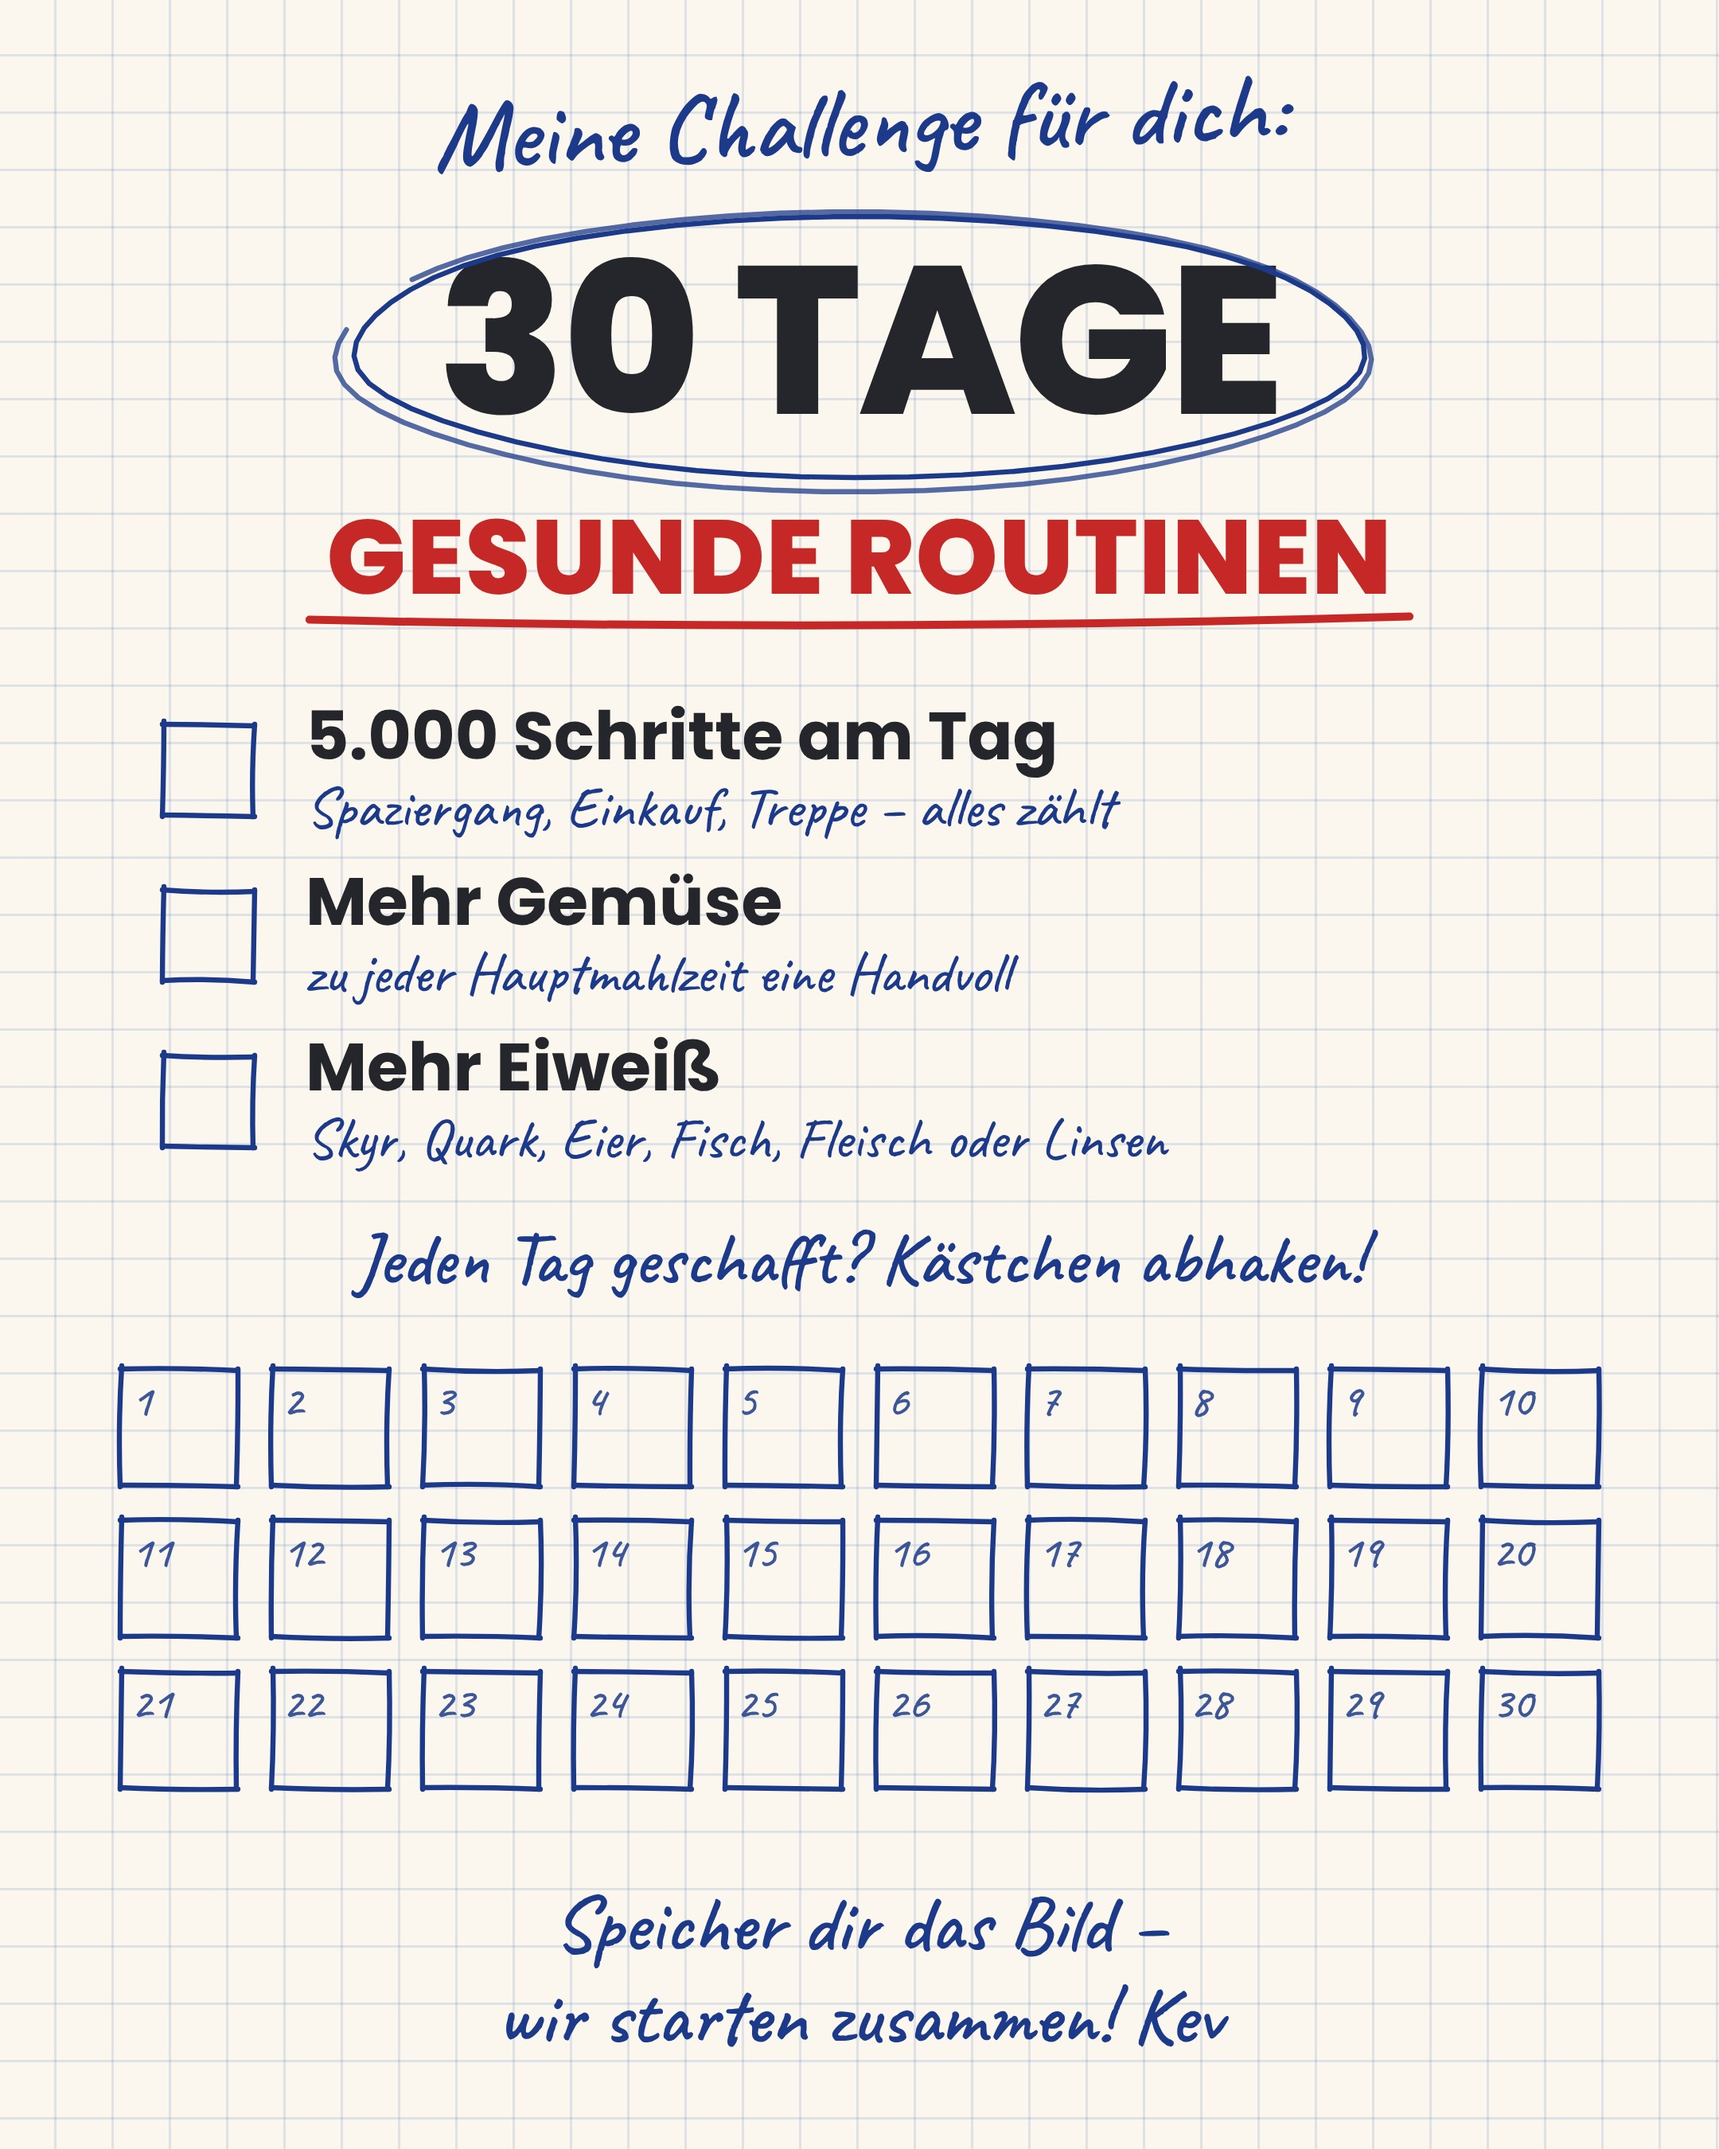
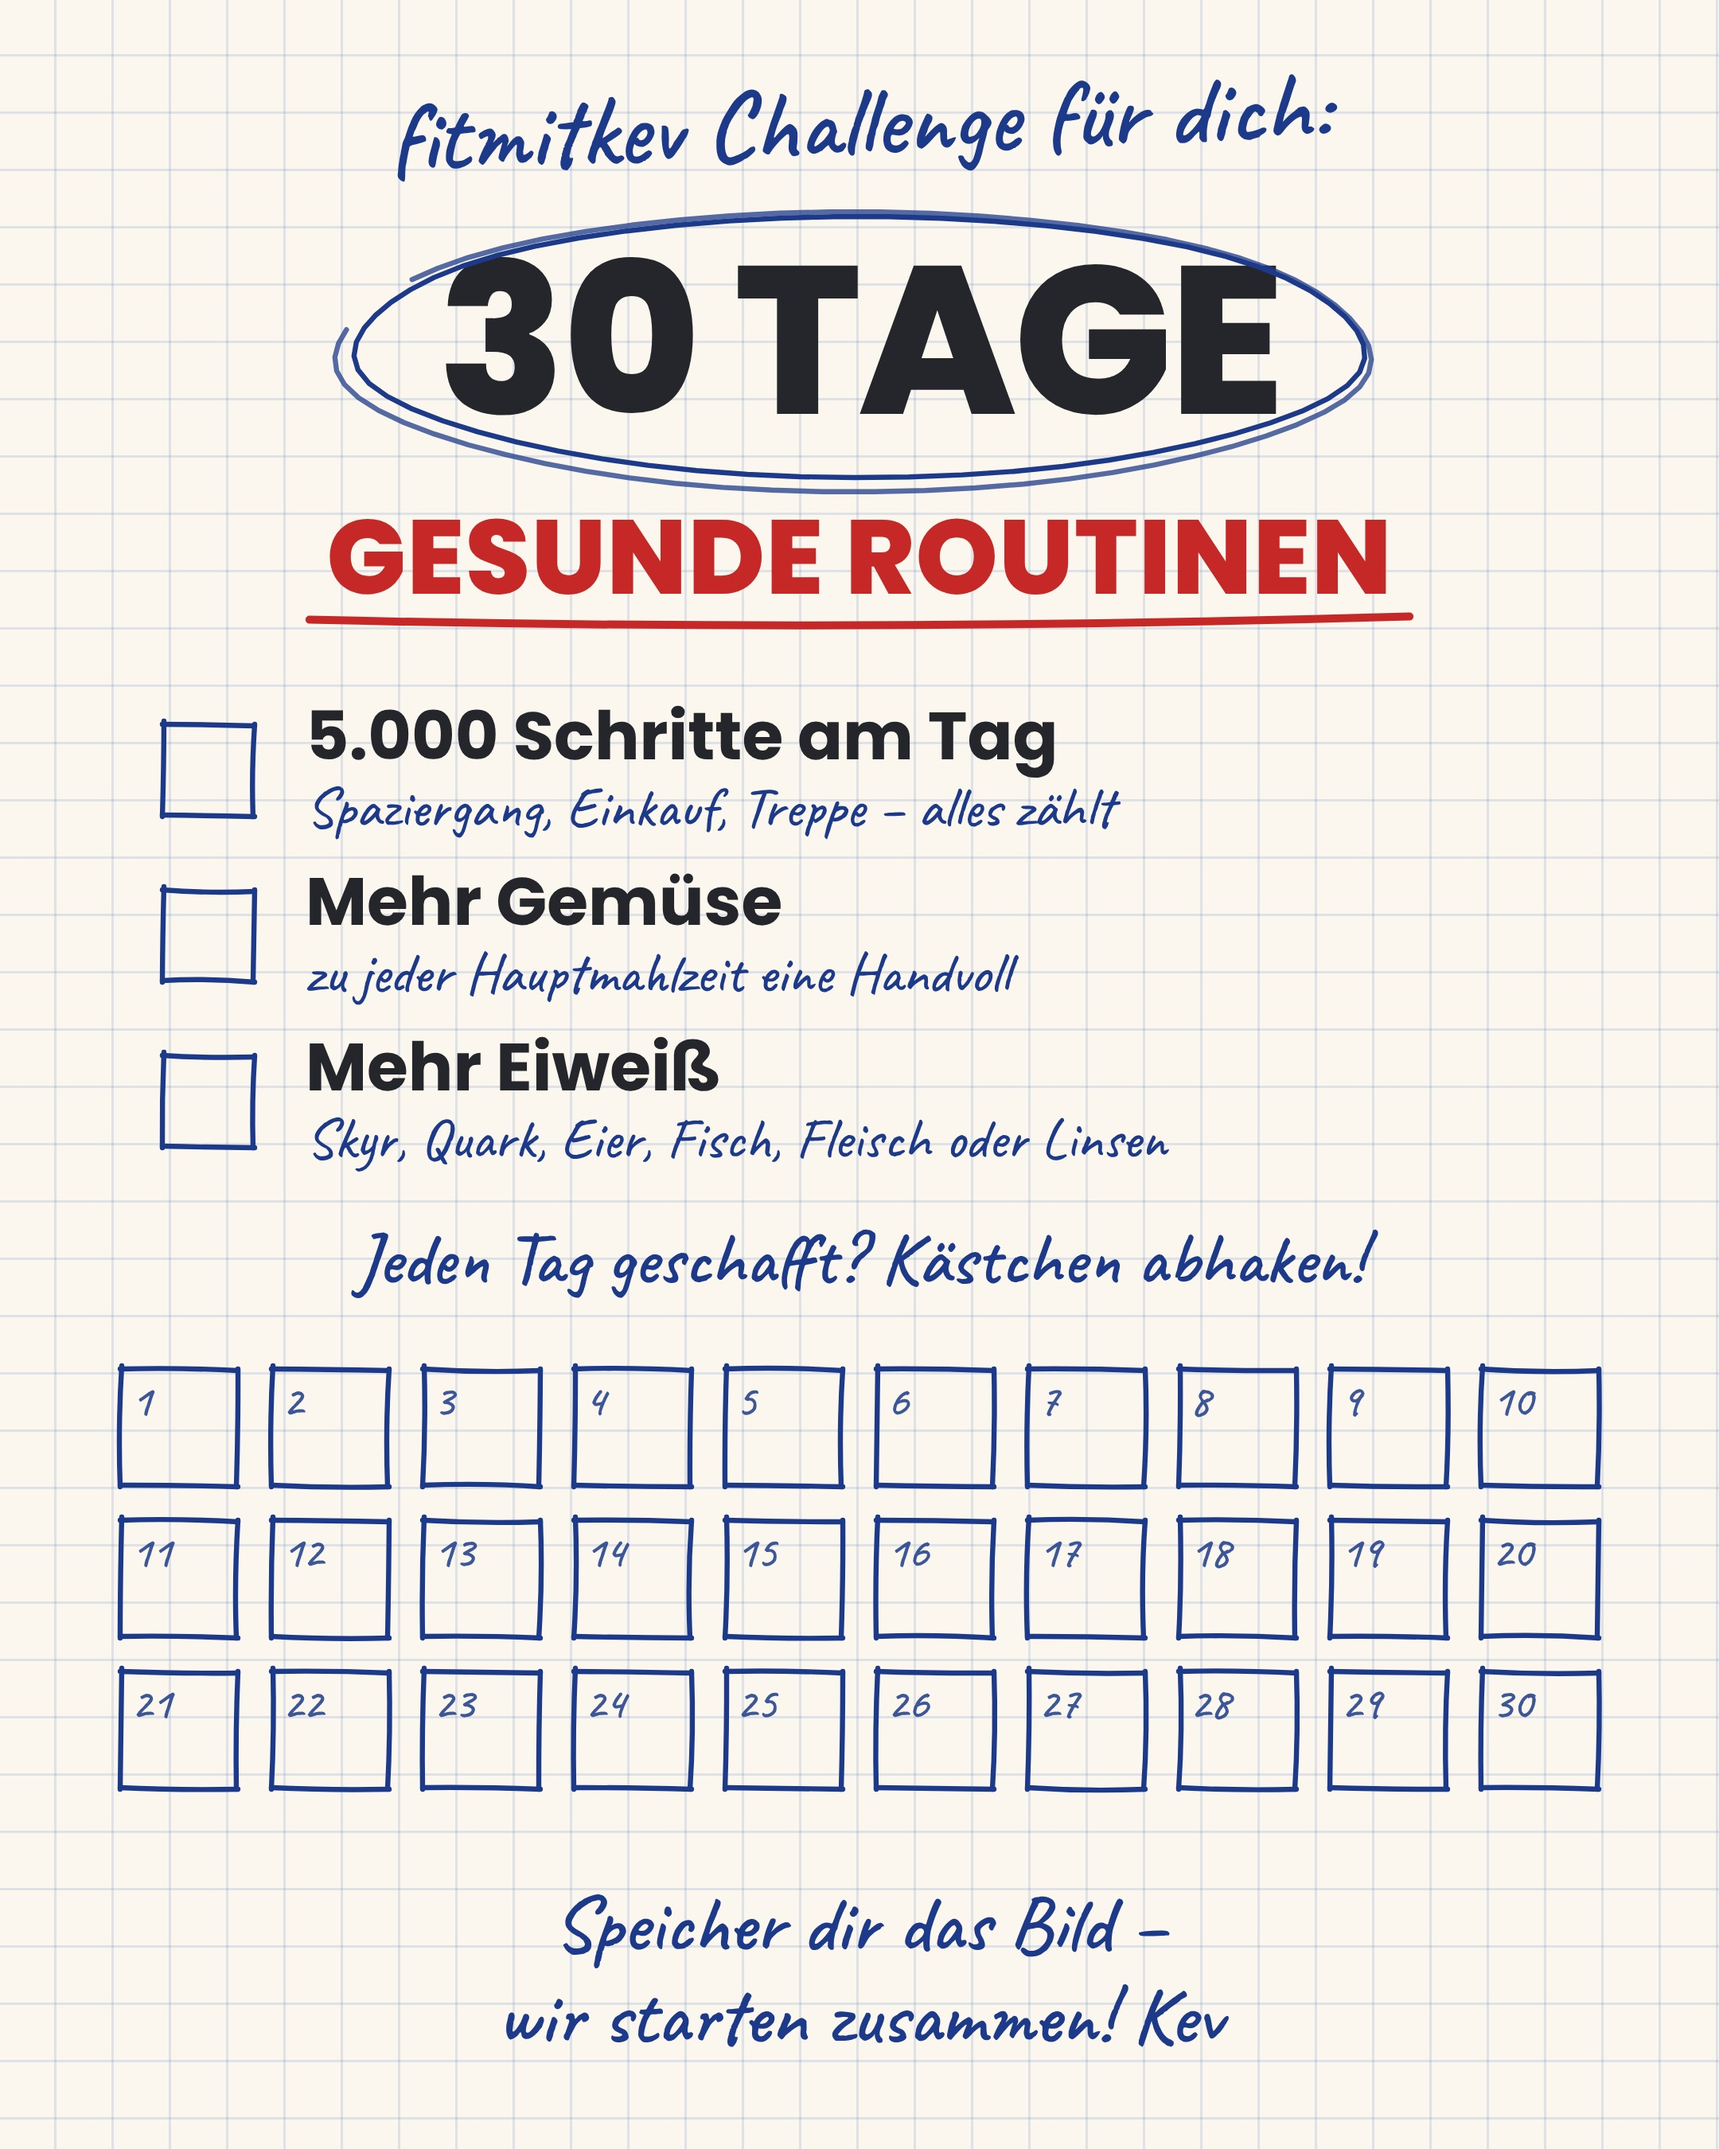
Challenge-Startbild: fitmitkev statt Meine
Claude-Session: https://claude.ai/code/session_01KPVmpRePrZAkggdzf7KsfK

Changed region(s): [[0.2171, 0.0311, 0.7755, 0.0933]]

diff --git a/tools/challenge/start.py b/tools/challenge/start.py
@@ -44,7 +44,7 @@ background-color:#fbf7ee;background-image:linear-gradient(rgba(70,120,190,.16) 1
 svg{{position:absolute;left:0;top:0;overflow:visible}}
 svg path{{fill:none;stroke:{INK};stroke-width:3.2;stroke-linecap:round;stroke-linejoin:round}}
 </style></head><body>
-<div class="top"><div class="k h">Meine Challenge für dich:</div>
+<div class="top"><div class="k h">fitmitkev Challenge für dich:</div>
 <div class="t1"><span id="z">30 TAGE</span></div>
 <div class="t2">GESUNDE ROUTINEN</div></div>
 <div class="hab">
